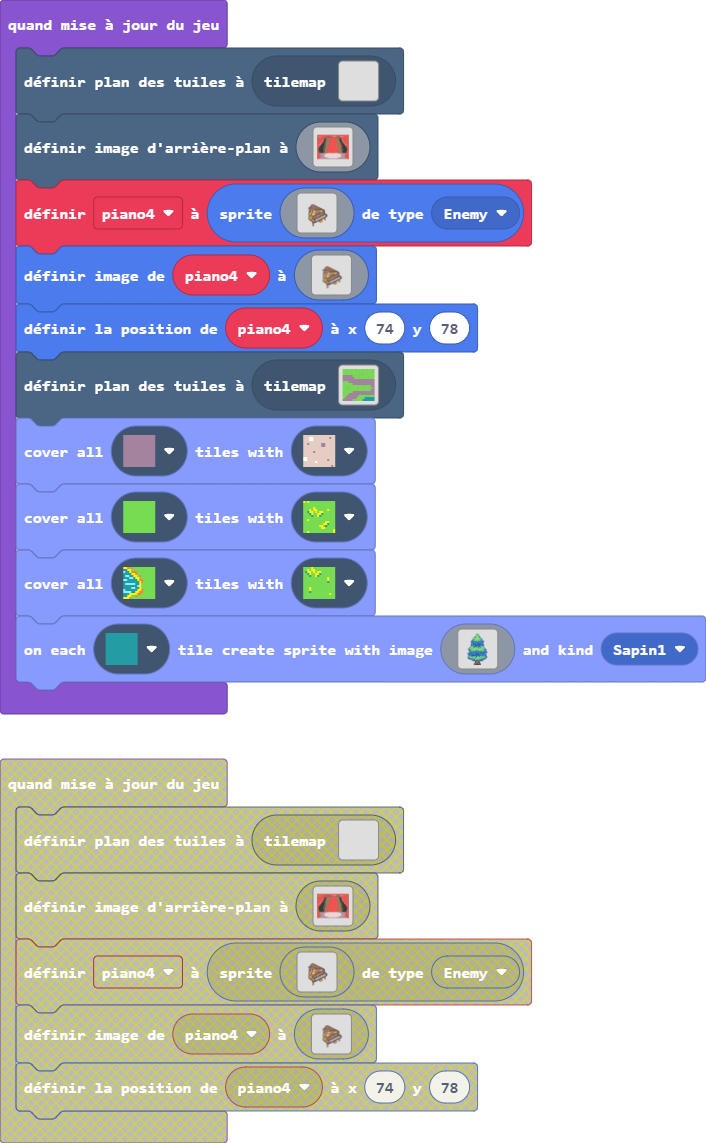
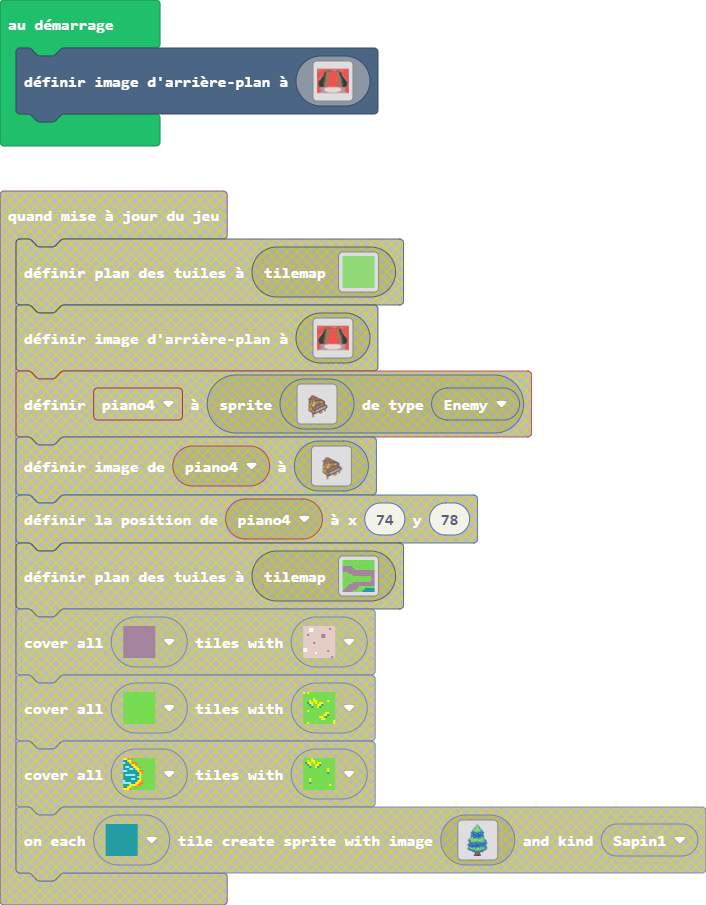
Mise à jour main.blocks, main.ts, tilemap.g.jres, tilemap.g.ts, main.py, images.g.jres, images.g.ts

diff --git a/images.g.ts b/images.g.ts
@@ -746,6 +746,129 @@ eeee2eeeeffffffffffffffffffffffffeeffffeeeeeeeeee22eeeee222ee2222ee2222222222222
[2 lines of base64/hex data omitted]
 `;
+            case "image17":
+            case "PianoAQueue0":return img`
+........................................................................................................................
+........................................................................................................................
+........................................................................................................................
+........................................................................................................................
+........................................................................................................................
+........................................................................................................................
+........................................................................................................................
+........................................................................................................................
+........................................................................................................................
+........................................................................................................................
+........................................................................................................................
+........................................................................................................................
+........................................................................................................................
+........................................................................................................................
+........................................................................................................................
+........................................................................................................................
+........................................................................................................................
+........................................................................................................................
+........................................................................................................................
+........................................................................................................................
+........................................................................................................................
+........................................................................................................................
+........................................................................................................................
+........................................................................................................................
+........................................................................................................................
+........................................................................................................................
+........................................................................................................................
+........................................................................................................................
+..........................................fffff.........................................................................
+........................................ffeeeeeff.......................................................................
+......................................ffeeeeeeeeeff.....................................................................
+.....................................feeeeeeeeeeeeeff...................................................................
+....................................feeeeeeeeeeeeeeeeff.................................................................
+....................................feeeeeeeeeeeeeeeeeeff...............................................................
+....................................feeeeeeeeeeeeeeeeeeeeff.............................................................
+....................................feeeeeeeeeeeeeeeeeeeeeeff...........................................................
+....................................ffeeeeeeeeeeeeeeeeeeeeeeeff.........................................................
+..................................ffeefeeeeeeeeeeeeeeeeeeeeeeeeff.......................................................
+................................ffeeeeefeeeeeeeeeeeeeeeeeeeeeeeeeff.....................................................
+...............................feeeeeeefeeeeeeeeeeeeeeeeeeeeeeeeeeeff...................................................
+...........................ffffffffffffeeeeeeeeeeeeeeeeeeeeeeeeeeeeeeff.................................................
+...........................fe4eeeeeeeeeeeeeeeeeeeeeeeeeeeeeeeeeeeeeeeeeff...............................................
+............................fe4eeeeeeeeeeeeeeeeeeeeeeeeeeeeeeeeeeeeeeeeeeff.............................................
+.............................fe4eeeeeeeeeeeeeeeeeeeeeeeeeeeeeeeeeeeeeeeeeeeff...........................................
+..............................fe4eeeeeeeeeeeeeeeeeeeeeeeeeeeeeeeeeeeeeeeeeeeeff.........................................
+..............................ffeffffffffffffffffffffffffffffffffffffffffffffffff.......................................
+..............................fcfe44444444eeeeeeeeeeeeeeeeeeeeeeeeeeeeeeeeeeeeeeeff.....................................
+..............................f55fe4eeeeeeeeeeeeeeeeeefffffffffffffffffffffffffffffff...................................
+..............................fcc5f55ee55ee55ee555ee55ff55ff55ff55ff4ff55ff55ff55ffff...................................
+..............................fccccfeeeeeecccccccccccccccccccccfffbb4fcccccccccccccccfff................................
+..............................fccccffffffffffffffffffffffffffffbbbeee4fffffffffffffffffff...............................
+..............................fccccfccc545522fccf455dd444fffbbbe5555e4f444555555444444fff...............................
+..............................fccccfccc54555fccf5d4455ddfbbbee55eeee5e4f554455555554ffeef...............................
+..............................fccccfecc54224fecf55dd445fbee555eeeeee5e4f4555555544ffeefff...............................
+..............................fcccfeccc5422fecfd4555d4fbe55eeeeeeeeee5e4f4555555ffeefffef...............................
+..............................fcccfeccc5544fecf5d44555fb5eeeeeeeeeeee5e4f44455ffeeffccfef...............................
+..............................fccfeccc5224fecf555dd44fb5eeeeeeeeeeeeee5e4f44ffeeffcceefef...............................
+..............................f5fecccc5225fecf44555ffb5eeeeeeeeeeeeeeee5e4ffeeffcceeeefef...............................
+..............................ffecccc54ddfecf5d44ffbb5eeeeeeeeeeeeeeeee5ffeeffcceeeeeefef...............................
+..............................feccccc5444fecf55dfdbe5eeeeeeeeeeeeeeeeeffeeffcceeeeeeeefef...............................
+..............................fecccc5522fecfd455fdbe5eeeeeeeeeeeeeeeffeeffcceeeeeeeeeefef...............................
+.............................fecccc55522fecf5dd44fdbe5eeeeeeeeeeeeffeeffcceeeeeeeeeeeefeff..............................
+.............................feccc54445fecf4455ddfdbe5eeeeeeeeeeffeeffcceeeeeeeeeeeeeeffeeff............................
+.............................feccc544d5fecfdd4455dfdbe5eeeeeeeffeeffcceeeeeeeeeeeeeebbfcffebff..........................
+.............................fecc54455fecf455ddd45fdbe5eeeeeffeeffcceeeeeeeeeeeeeebbccfcccffbbff........................
+.............................fecc54444fecf44455ddd4fdbe5eeffeeffcceeeeeeeeeeeeeebbccfffcccccffbbf.......................
+.............................ffec5455fecf45554455ddfdbe5ffeeffcceeeeeeeeeeeeeebbccffffdffcccccffbf......................
+.............................fefee45dfecf54445444555fdffeeffcceeeeeee5eeeeeebbccffffdffddffccccfbf......................
+.............................f5effeefecf54fff4544444ffeeffcceeeeeee5e5eeeebbccffffdffdff1ddffccfef......................
+.............................fe5eefffecf54fff45444ffeeffcceeeeeee5e5eeeebbccffffdffdffdff11ddfcfef......................
+.............................fee55eeffff45555544ffeeffcceeeeeee5e5eeeebbccfffffdbdffdffddb11bbffef......................
+.............................feeee55eeffee4444ffeeffcceeeeeeeee5eeeebbccfffffdffdbdffddb1dbb1fffef......................
+.............................feeeeee55eeffeeffeeffcceeeeeeeeeeeeeebbccffffddffdffdbddb1dbb11feefef......................
+.............................feeeeeeee55eeffeeffcceeeeeeeeeeeeeebbccffffdff1dffdffdb1dbb11ffeeeff.......................
+.............................feeeeeeeeee55efffcceeeeeeeeeeeeeebbccffffdffdff1dffdb1dbb11ffeeeecf........................
+.............................feeeeeeeeeee5efefeeeeeeeeeeeeeebbccffffdffdffdff1db1dbb11ffeeeeccf.........................
+.............................feeeeeeeeeee5efefeeeeeeeeeeeebbccfffffdbdffdffddb1dbb11ffeeeeccff..........................
+.............................feeee55eeeee5efefeeeeeeeeeebbccfffffdffdbdffddb1dbb11ffeeeeccff............................
+.............................feeee55e55ee5efefeeeeeeeebbccffffddffdffdbddb1dbb11ffeeeeccffef............................
+.............................fe5ee55555ee5efefeeeeeebbccffffdff1dffdffdb1dbb11ffeeeeccff544f............................
+............................ffe5eee555eeee5efefeeebbccffffdffdff1dffdb1dbb11ffeeeeccff.f544f............................
+............................fefe5eee5eeeee5efcfebbccffffdffdffdff1db1dbb11ffeeeeccff....f4f.............................
+............................fefe5eeeeeeeee5efcffccfffffdbdffdffddb1dbb11ffeeeeccff......fff.............................
+.............................fefe5eeeeeeee5effccfffffdffdbdffddb1dbb11ffeeeeccff.......f554f............................
+..............................fefe55eeeeeee5eeffcefff1dffdbddb1dbb11ffeeeeccff.........f544f............................
+...............................fefee55eeeeee55eeffeeff1dffdb1dbb11ffeeeeccffcf.........f444f............................
+................................feffee55eeeeee55eeffeef1db1dbb11ffeeeeccffcccf..........fff.............................
+.................................feeffee55eeeeee55eefef11dbb11ffeeeeccffcceeef..........................................
+..................................ffeeffee55eeeeee5efefbbb11ffeeeeccffcceeeef5ff........................................
+....................................ffeeffee55eeee5efef111ffeeeeccffcceeeeff5554f.......................................
+......................................ffeeffee55ee5efef1ffeeeeccff.fceeeff544554f.......................................
+........................................ffeeffee55eefeffeeeeccff...fceff5555544f........................................
+..........................................ffeeffeeeefefeeeccff......ff55544544f.........................................
+..........................................fcffeeffeefefeccff.........f445544ff..........................................
+..........................................fcccffeefffefcff............ff44ff............................................
+..........................................fcccccffeeefff................ff..............................................
+..........................................feccccf.ffff..................................................................
+..........................................feececf.......................................................................
+..........................................feececf.......................................................................
+...........................................fecef........................................................................
+...........................................fecef........................................................................
+...........................................f544f........................................................................
+...........................................f544f........................................................................
+............................................f4f.........................................................................
+............................................fff.........................................................................
+...........................................f554f........................................................................
+...........................................f544f........................................................................
+...........................................f444f........................................................................
+............................................fff.........................................................................
+........................................................................................................................
+........................................................................................................................
+........................................................................................................................
+........................................................................................................................
+........................................................................................................................
+........................................................................................................................
+........................................................................................................................
+........................................................................................................................
+........................................................................................................................
+........................................................................................................................
+........................................................................................................................
+`;
         }
         return null;
     })

diff --git a/tilemap.g.ts b/tilemap.g.ts
@@ -79,25 +79,6 @@ namespace myTiles {
 . . . . . . . . . . . . . . . . 
 . . . . . . . . . . . . . . . . 
 `, [myTiles.transparency16,myTiles.tile10,myTiles.tile4,myTiles.tile3,myTiles.tile9], TileScale.Sixteen);
-            case "niveau2":
-            case "niveau2":return tiles.createTilemap(hex`1000100000000000000000000000000000000000000000000000000000000000000000000000000000000000000000000000000000000000000000000000000000000000000000000000000000000000000000000000000000000000000000000000000000000000000000000000000000000000000000000000000000000000000000000000000000000000000000000000000000000000000000000000000000000000000000000000000000000000000000000000000000000000000000000000000000000000000000000000000000000000000000000000000000000000000000000000000000000000000000000000000000000000000000000000000000000000`, img`
-. . . . . . . . . . . . . . . . 
-. . . . . . . . . . . . . . . . 
-. . . . . . . . . . . . . . . . 
-. . . . . . . . . . . . . . . . 
-. . . . . . . . . . . . . . . . 
-. . . . . . . . . . . . . . . . 
-. . . . . . . . . . . . . . . . 
-. . . . . . . . . . . . . . . . 
-. . . . . . . . . . . . . . . . 
-. . . . . . . . . . . . . . . . 
-. . . . . . . . . . . . . . . . 
-. . . . . . . . . . . . . . . . 
-. . . . . . . . . . . . . . . . 
-. . . . . . . . . . . . . . . . 
-. . . . . . . . . . . . . . . . 
-. . . . . . . . . . . . . . . . 
-`, [myTiles.transparency16], TileScale.Sixteen);
             case "niveau4":
             case "niveau4":return tiles.createTilemap(hex`1000100000000000000000000000000000000000000000000000000000000000000000000000000000000000000000000000000000000000000000000000000000000000000000000000000000000000000000000000000000000000000000000000000000000000000000000000000000000000000000000000000000000000000000000000000000000000000000000000000000000000000000000000000000000000000000000000000000000000000000000000000000000000000000000000000000000000000000000000000000000000000000000000000000000000000000000000000000000000000000000000000000000000000000000000000000000000`, img`
 . . . . . . . . . . . . . . . . 
@@ -119,6 +100,139 @@ namespace myTiles {
 `, [myTiles.transparency16], TileScale.Sixteen);
             case "niveau5":
             case "niveau5":return tiles.createTilemap(hex`1000100000000000000000000000000000000000000000000000000000000000000000000000000000000000000000000000000000000000000000000000000000000000000000000000000000000000000000000000000000000000000000000000000000000000000000000000000000000000000000000000000000000000000000000000000000000000000000000000000000000000000000000000000000000000000000000000000000000000000000000000000000000000000000000000000000000000000000000000000000000000000000000000000000000000000000000000000000000000000000000000000000000000000000000000000000000000`, img`
+. . . . . . . . . . . . . . . . 
+. . . . . . . . . . . . . . . . 
+. . . . . . . . . . . . . . . . 
+. . . . . . . . . . . . . . . . 
+. . . . . . . . . . . . . . . . 
+. . . . . . . . . . . . . . . . 
+. . . . . . . . . . . . . . . . 
+. . . . . . . . . . . . . . . . 
+. . . . . . . . . . . . . . . . 
+. . . . . . . . . . . . . . . . 
+. . . . . . . . . . . . . . . . 
+. . . . . . . . . . . . . . . . 
+. . . . . . . . . . . . . . . . 
+. . . . . . . . . . . . . . . . 
+. . . . . . . . . . . . . . . . 
+. . . . . . . . . . . . . . . . 
+`, [myTiles.transparency16], TileScale.Sixteen);
+            case "niveau2":
+            case "niveau2":return tiles.createTilemap(hex`1000100001010101010101010101010101010101010101010101010101010101010101010101010101010101010101010101010101010101010101010101010101010101010101010101010101010101010101010101010101010101010101010101010101010101010101010101010101010101010101010101010101010101010101010101010101010101010101010101010101010101010101010101010101010101010101010101010101010101010101010101010101010101010101010101010101010101010101010101010101010101010101010101010101010101010101010101010101010101010101010101010101010101010101010101010101010101`, img`
+. . . . . . . . . . . . . . . . 
+. . . . . . . . . . . . . . . . 
+. . . . . . . . . . . . . . . . 
+. . . . . . . . . . . . . . . . 
+. . . . . . . . . . . . . . . . 
+. . . . . . . . . . . . . . . . 
+. . . . . . . . . . . . . . . . 
+. . . . . . . . . . . . . . . . 
+. . . . . . . . . . . . . . . . 
+. . . . . . . . . . . . . . . . 
+. . . . . . . . . . . . . . . . 
+. . . . . . . . . . . . . . . . 
+. . . . . . . . . . . . . . . . 
+. . . . . . . . . . . . . . . . 
+. . . . . . . . . . . . . . . . 
+. . . . . . . . . . . . . . . . 
+`, [myTiles.transparency16,sprites.castle.tileGrass2], TileScale.Sixteen);
+            case "niveau6":
+            case "niveau6":return tiles.createTilemap(hex`1000100000000000000000000000000000000000000000000000000000000000000000000000000000000000000000000000000000000000000000000000000000000000000000000000000000000000000000000000000000000000000000000000000000000000000000000000000000000000000000000000000000000000000000000000000000000000000000000000000000000000000000000000000000000000000000000000000000000000000000000000000000000000000000000000000000000000000000000000000000000000000000000000000000000000000000000000000000000000000000000000000000000000000000000000000000000000`, img`
+. . . . . . . . . . . . . . . . 
+. . . . . . . . . . . . . . . . 
+. . . . . . . . . . . . . . . . 
+. . . . . . . . . . . . . . . . 
+. . . . . . . . . . . . . . . . 
+. . . . . . . . . . . . . . . . 
+. . . . . . . . . . . . . . . . 
+. . . . . . . . . . . . . . . . 
+. . . . . . . . . . . . . . . . 
+. . . . . . . . . . . . . . . . 
+. . . . . . . . . . . . . . . . 
+. . . . . . . . . . . . . . . . 
+. . . . . . . . . . . . . . . . 
+. . . . . . . . . . . . . . . . 
+. . . . . . . . . . . . . . . . 
+. . . . . . . . . . . . . . . . 
+`, [myTiles.transparency16], TileScale.Sixteen);
+            case "niveau7":
+            case "niveau7":return tiles.createTilemap(hex`1000100000000000000000000000000000000000000000000000000000000000000000000000000000000000000000000000000000000000000000000000000000000000000000000000000000000000000000000000000000000000000000000000000000000000000000000000000000000000000000000000000000000000000000000000000000000000000000000000000000000000000000000000000000000000000000000000000000000000000000000000000000000000000000000000000000000000000000000000000000000000000000000000000000000000000000000000000000000000000000000000000000000000000000000000000000000000`, img`
+. . . . . . . . . . . . . . . . 
+. . . . . . . . . . . . . . . . 
+. . . . . . . . . . . . . . . . 
+. . . . . . . . . . . . . . . . 
+. . . . . . . . . . . . . . . . 
+. . . . . . . . . . . . . . . . 
+. . . . . . . . . . . . . . . . 
+. . . . . . . . . . . . . . . . 
+. . . . . . . . . . . . . . . . 
+. . . . . . . . . . . . . . . . 
+. . . . . . . . . . . . . . . . 
+. . . . . . . . . . . . . . . . 
+. . . . . . . . . . . . . . . . 
+. . . . . . . . . . . . . . . . 
+. . . . . . . . . . . . . . . . 
+. . . . . . . . . . . . . . . . 
+`, [myTiles.transparency16], TileScale.Sixteen);
+            case "niveau8":
+            case "niveau8":return tiles.createTilemap(hex`1000100000000000000000000000000000000000000000000000000000000000000000000000000000000000000000000000000000000000000000000000000000000000000000000000000000000000000000000000000000000000000000000000000000000000000000000000000000000000000000000000000000000000000000000000000000000000000000000000000000000000000000000000000000000000000000000000000000000000000000000000000000000000000000000000000000000000000000000000000000000000000000000000000000000000000000000000000000000000000000000000000000000000000000000000000000000000`, img`
+. . . . . . . . . . . . . . . . 
+. . . . . . . . . . . . . . . . 
+. . . . . . . . . . . . . . . . 
+. . . . . . . . . . . . . . . . 
+. . . . . . . . . . . . . . . . 
+. . . . . . . . . . . . . . . . 
+. . . . . . . . . . . . . . . . 
+. . . . . . . . . . . . . . . . 
+. . . . . . . . . . . . . . . . 
+. . . . . . . . . . . . . . . . 
+. . . . . . . . . . . . . . . . 
+. . . . . . . . . . . . . . . . 
+. . . . . . . . . . . . . . . . 
+. . . . . . . . . . . . . . . . 
+. . . . . . . . . . . . . . . . 
+. . . . . . . . . . . . . . . . 
+`, [myTiles.transparency16], TileScale.Sixteen);
+            case "niveau9":
+            case "niveau9":return tiles.createTilemap(hex`1000100000000000000000000000000000000000000000000000000000000000000000000000000000000000000000000000000000000000000000000000000000000000000000000000000000000000000000000000000000000000000000000000000000000000000000000000000000000000000000000000000000000000000000000000000000000000000000000000000000000000000000000000000000000000000000000000000000000000000000000000000000000000000000000000000000000000000000000000000000000000000000000000000000000000000000000000000000000000000000000000000000000000000000000000000000000000`, img`
+. . . . . . . . . . . . . . . . 
+. . . . . . . . . . . . . . . . 
+. . . . . . . . . . . . . . . . 
+. . . . . . . . . . . . . . . . 
+. . . . . . . . . . . . . . . . 
+. . . . . . . . . . . . . . . . 
+. . . . . . . . . . . . . . . . 
+. . . . . . . . . . . . . . . . 
+. . . . . . . . . . . . . . . . 
+. . . . . . . . . . . . . . . . 
+. . . . . . . . . . . . . . . . 
+. . . . . . . . . . . . . . . . 
+. . . . . . . . . . . . . . . . 
+. . . . . . . . . . . . . . . . 
+. . . . . . . . . . . . . . . . 
+. . . . . . . . . . . . . . . . 
+`, [myTiles.transparency16], TileScale.Sixteen);
+            case "niveau10":
+            case "niveau10":return tiles.createTilemap(hex`1000100000000000000000000000000000000000000000000000000000000000000000000000000000000000000000000000000000000000000000000000000000000000000000000000000000000000000000000000000000000000000000000000000000000000000000000000000000000000000000000000000000000000000000000000000000000000000000000000000000000000000000000000000000000000000000000000000000000000000000000000000000000000000000000000000000000000000000000000000000000000000000000000000000000000000000000000000000000000000000000000000000000000000000000000000000000000`, img`
+. . . . . . . . . . . . . . . . 
+. . . . . . . . . . . . . . . . 
+. . . . . . . . . . . . . . . . 
+. . . . . . . . . . . . . . . . 
+. . . . . . . . . . . . . . . . 
+. . . . . . . . . . . . . . . . 
+. . . . . . . . . . . . . . . . 
+. . . . . . . . . . . . . . . . 
+. . . . . . . . . . . . . . . . 
+. . . . . . . . . . . . . . . . 
+. . . . . . . . . . . . . . . . 
+. . . . . . . . . . . . . . . . 
+. . . . . . . . . . . . . . . . 
+. . . . . . . . . . . . . . . . 
+. . . . . . . . . . . . . . . . 
+. . . . . . . . . . . . . . . . 
+`, [myTiles.transparency16], TileScale.Sixteen);
+            case "niveau11":
+            case "niveau11":return tiles.createTilemap(hex`1000100000000000000000000000000000000000000000000000000000000000000000000000000000000000000000000000000000000000000000000000000000000000000000000000000000000000000000000000000000000000000000000000000000000000000000000000000000000000000000000000000000000000000000000000000000000000000000000000000000000000000000000000000000000000000000000000000000000000000000000000000000000000000000000000000000000000000000000000000000000000000000000000000000000000000000000000000000000000000000000000000000000000000000000000000000000000`, img`
 . . . . . . . . . . . . . . . . 
 . . . . . . . . . . . . . . . . 
 . . . . . . . . . . . . . . . . 

diff --git a/main.ts b/main.ts
@@ -5,16 +5,4 @@ namespace SpriteKind {
     export const PianoAQueue = SpriteKind.create()
     export const Sapin1 = SpriteKind.create()
 }
-let piano4: Sprite = null
-game.onUpdate(function () {
-    tiles.setCurrentTilemap(tilemap`niveau2`)
-    scene.setBackgroundImage(assets.image`stage`)
-    piano4 = sprites.create(assets.image`PianoAQueue`, SpriteKind.Enemy)
-    piano4.setImage(assets.image`PianoAQueue`)
-    piano4.setPosition(74, 78)
-    tiles.setCurrentTilemap(tilemap`niveau3`)
-    tileUtil.coverAllTiles(assets.tile`myTile0`, sprites.castle.tilePath5)
-    tileUtil.coverAllTiles(assets.tile`myTile4`, sprites.castle.tileGrass3)
-    tileUtil.coverAllTiles(assets.tile`waterBorder`, sprites.castle.tileGrass1)
-    tileUtil.createSpritesOnTiles(assets.tile`myTile3`, assets.image`forestTree1`, SpriteKind.Sapin1)
-})
+scene.setBackgroundImage(assets.image`stage`)

diff --git a/main.py b/main.py
@@ -22,4 +22,24 @@ def on_on_update():
         PianoAQueue
     """))
     piano4.set_position(74, 78)
+    tiles.set_current_tilemap(tilemap("""
+        niveau3
+    """))
+    tileUtil.cover_all_tiles(assets.tile("""
+        myTile0
+    """), sprites.castle.tile_path5)
+    tileUtil.cover_all_tiles(assets.tile("""
+        myTile4
+    """), sprites.castle.tile_grass3)
+    tileUtil.cover_all_tiles(assets.tile("""
+            waterBorder
+        """),
+        sprites.castle.tile_grass1)
+    tileUtil.create_sprites_on_tiles(assets.tile("""
+            myTile3
+        """),
+        assets.image("""
+            forestTree1
+        """),
+        SpriteKind.Sapin1)
 game.on_update(on_on_update)
